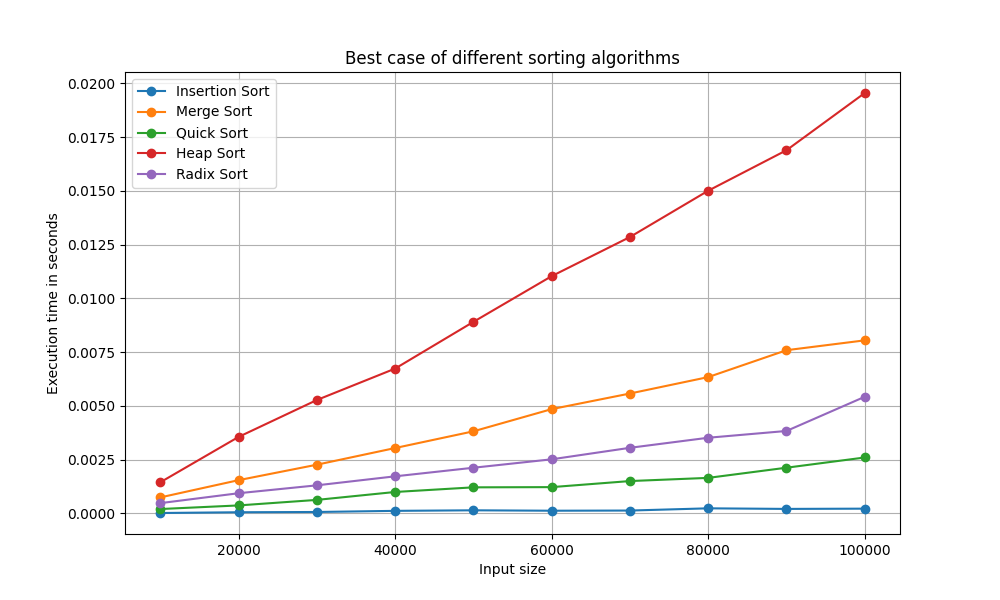
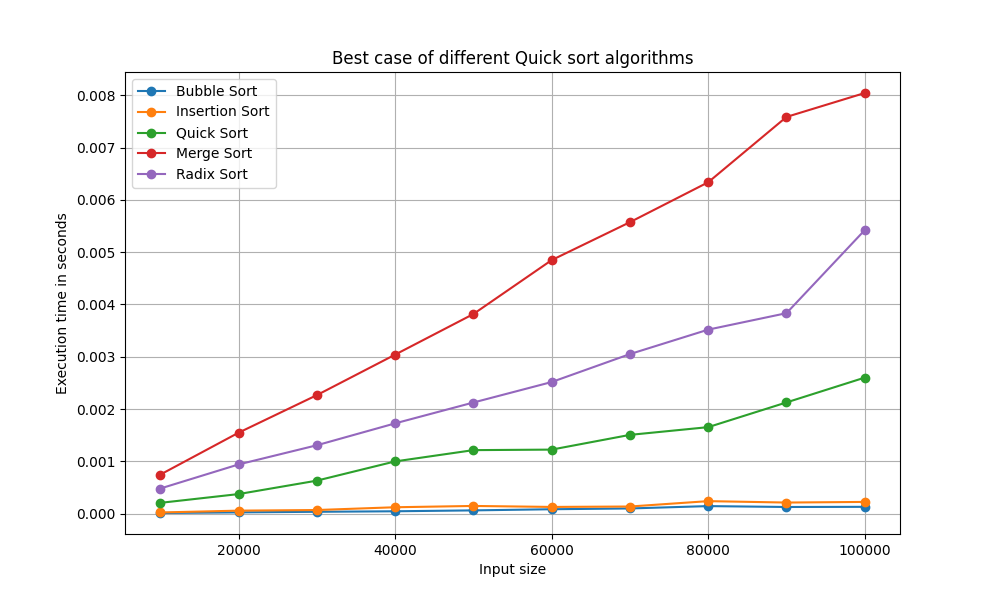
report

diff --git a/plotGraph.py b/plotGraph.py
@@ -45,11 +45,11 @@ def plot_multiple_lines(df, x_column, y_columns, sheet_name):
 
 # Example usage
 
-file_path = Path("Run times/quickSorts.ods")
-sheet_name = 'Worst'
+file_path = Path("Run times/allSorts.ods")
+sheet_name = 'Best'
 x_column = 'Input size'
-y_columns = [ 'Random element as pivot', 'Median of first, middle and last element as pivot']
-# y_columns = ['Merge Sort', 'Heap Sort', 'Radix Sort']
+# y_columns = [ 'Random element as pivot', 'Median of first, middle and last element as pivot']
+y_columns = ['Bubble Sort','Insertion Sort', 'Quick Sort', 'Merge Sort', 'Radix Sort']
 
 df = read_ods_to_dataframe(file_path, sheet_name)
 if df is not None:
